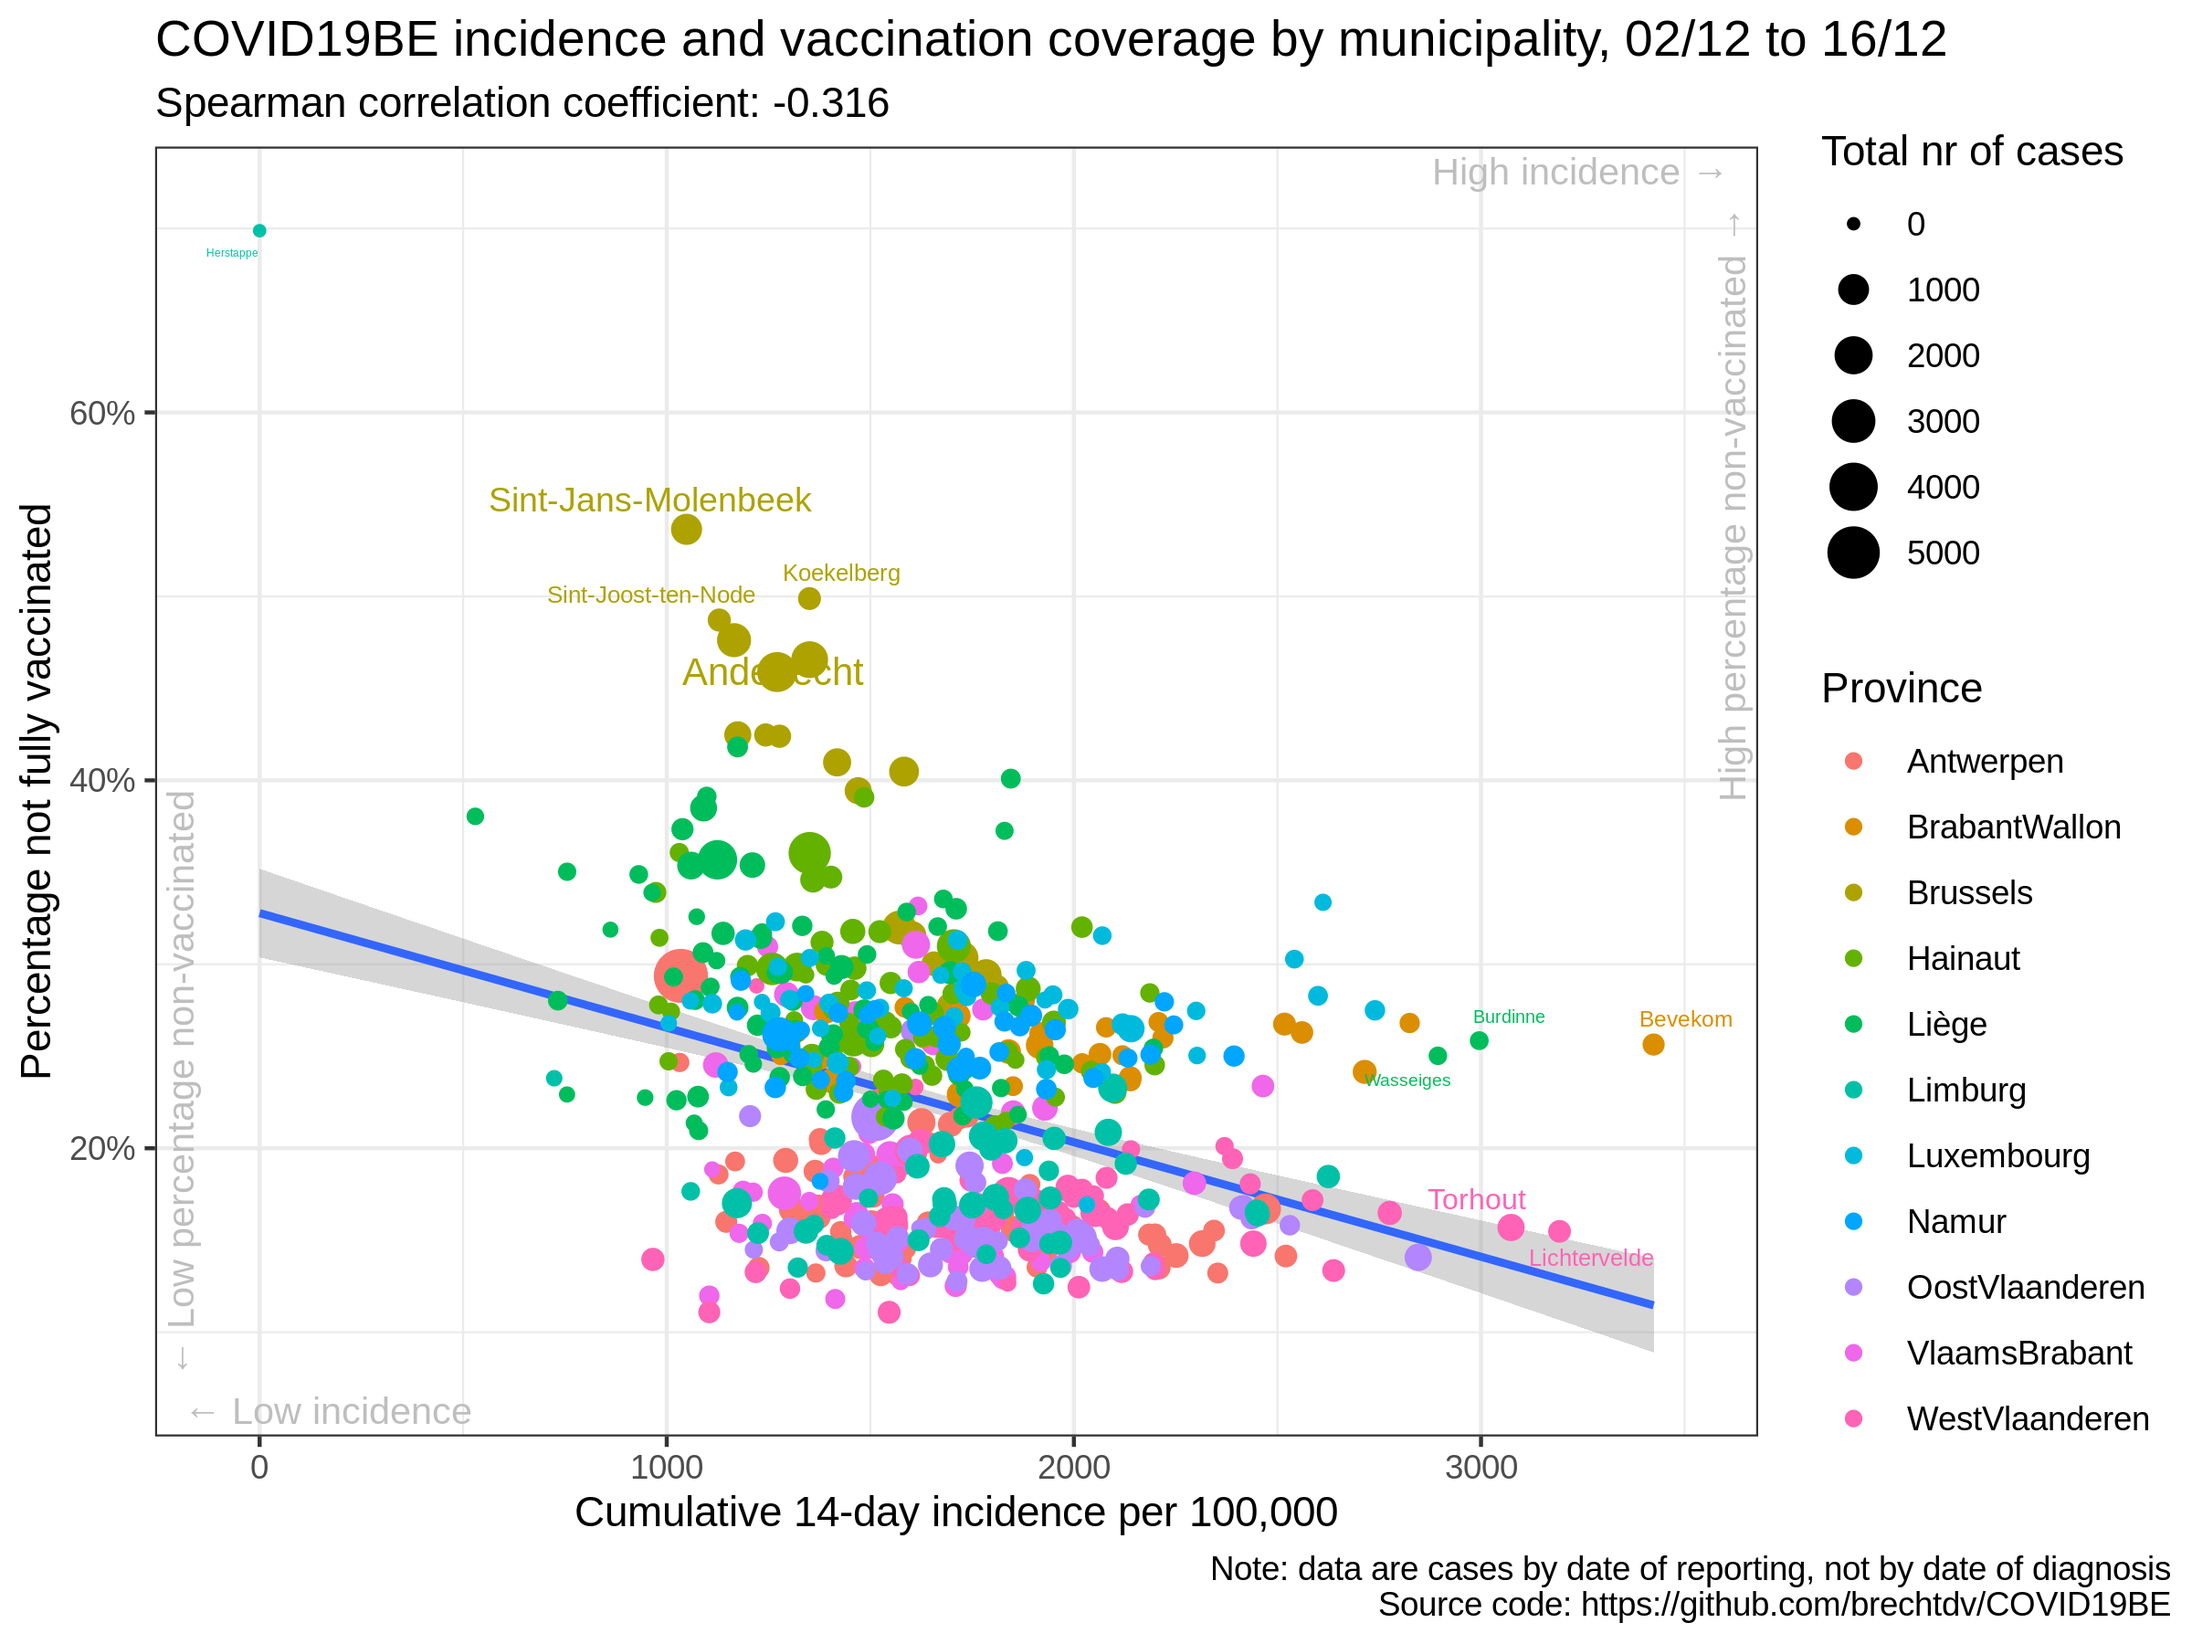
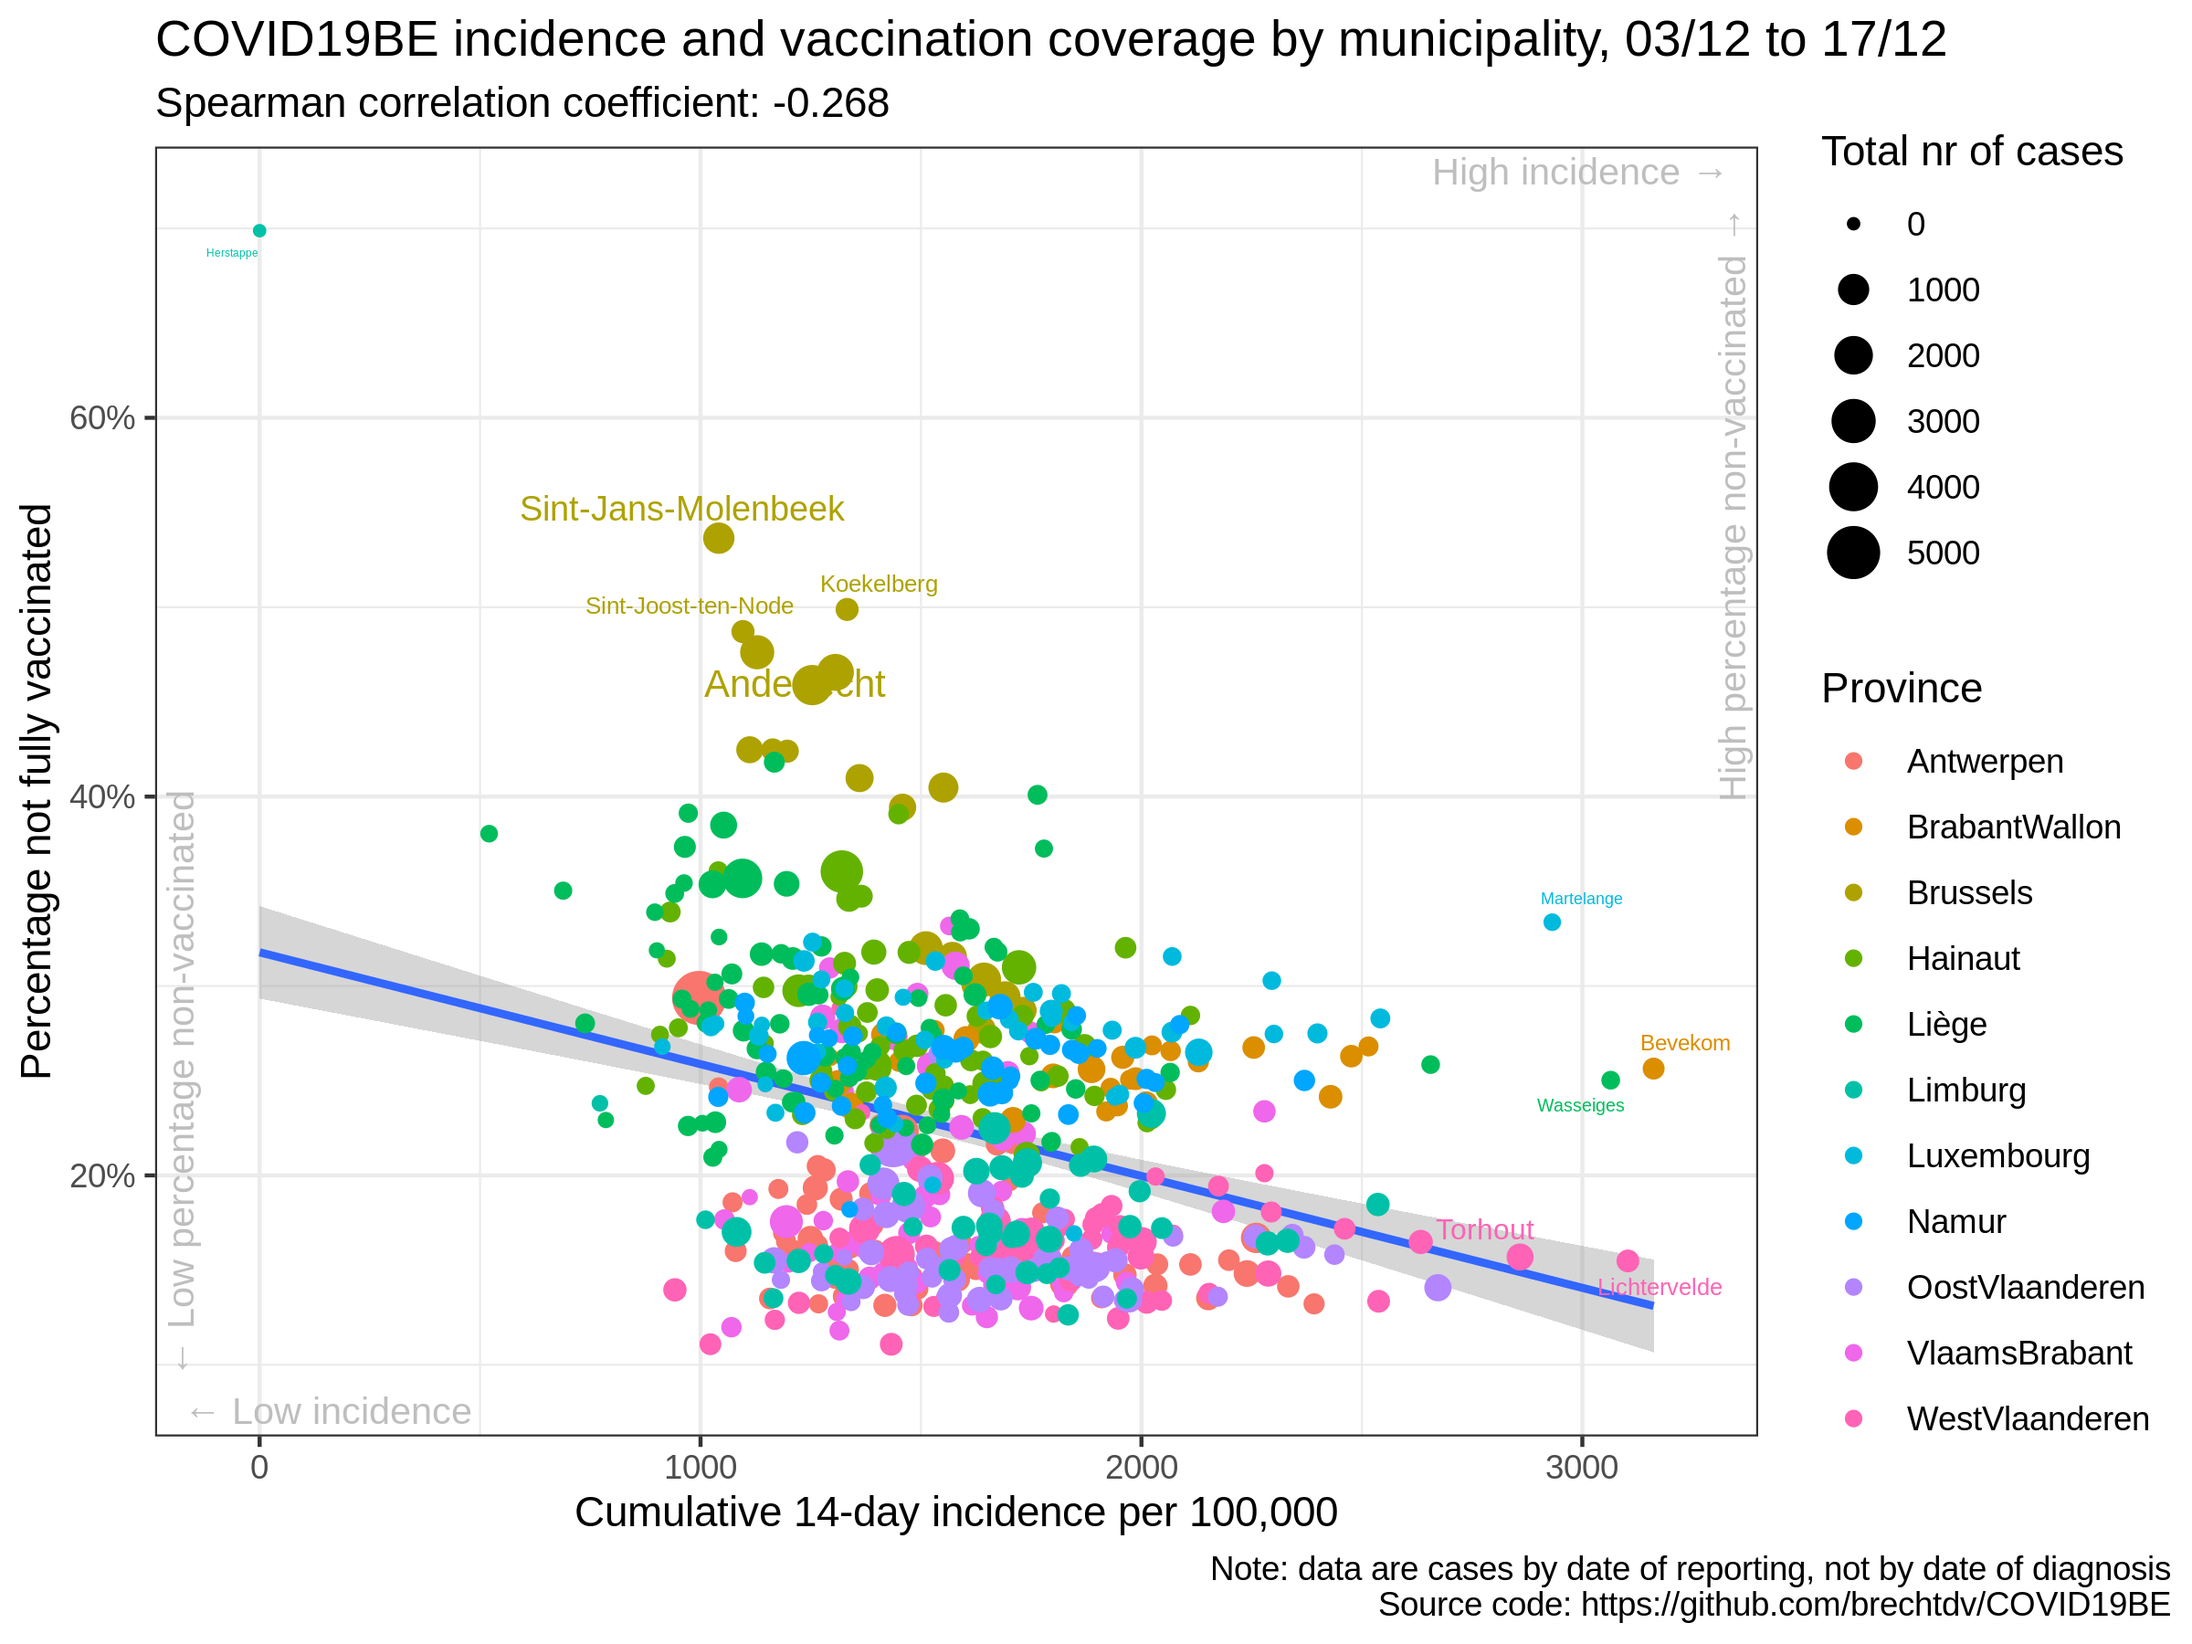
update situation

diff --git a/vaccination/README.md b/vaccination/README.md
@@ -14,17 +14,17 @@
 |                | estimate.rho | p.value |
 | :------------- | -----------: | ------: |
 | Antwerpen      |      \-0.350 |   0.003 |
-| BrabantWallon  |        0.036 |   0.859 |
-| Brussels       |      \-0.914 |   0.000 |
-| Hainaut        |      \-0.398 |   0.001 |
-| Liège          |      \-0.273 |   0.012 |
-| Limburg        |        0.012 |   0.942 |
-| Luxembourg     |      \-0.030 |   0.845 |
-| Namur          |        0.053 |   0.753 |
-| OostVlaanderen |      \-0.134 |   0.305 |
-| VlaamsBrabant  |      \-0.165 |   0.189 |
-| WestVlaanderen |        0.129 |   0.307 |
-| Belgium        |      \-0.316 |   0.000 |
+| BrabantWallon  |        0.087 |   0.666 |
+| Brussels       |      \-0.898 |   0.000 |
+| Hainaut        |      \-0.346 |   0.004 |
+| Liège          |      \-0.274 |   0.012 |
+| Limburg        |        0.025 |   0.873 |
+| Luxembourg     |        0.036 |   0.816 |
+| Namur          |        0.014 |   0.933 |
+| OostVlaanderen |      \-0.074 |   0.575 |
+| VlaamsBrabant  |      \-0.068 |   0.590 |
+| WestVlaanderen |        0.095 |   0.454 |
+| Belgium        |      \-0.268 |   0.000 |
 
 ### Data source
 
